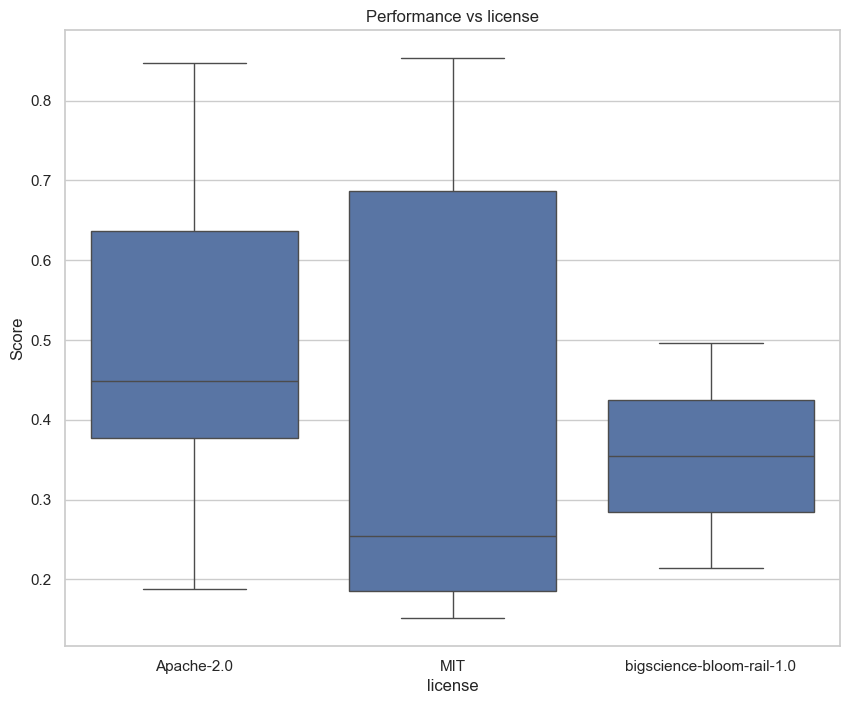
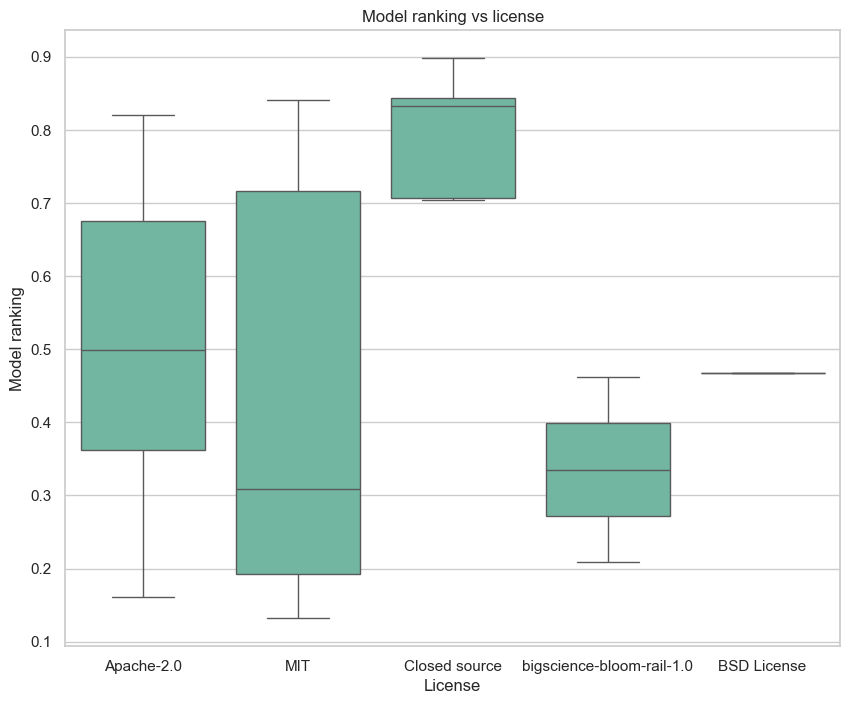
Figures ranking vs characteristics (#74)
* add base csv

* update get model spec script and csv

* adding some missing information

* add plot charac vs performance

* add global correlations

* update characteristics, scripts, and figures

* update plots with new results

* Manage bibtex mining special case in results parser

* fix MasakhaNEWSClassification issue

* ignore some models

* remove some hardcoding

* adding two missing models

* generate new perf vs charac charts

* fixing script and figures

* fix display names

* Update script_mteb_french/results_analysis/models_characteristics.csv

* Update script_mteb_french/results_analysis/models_characteristics.csv

---------

diff --git a/script_mteb_french/results_analysis/performance_vs_characteristics.py b/script_mteb_french/results_analysis/performance_vs_characteristics.py
@@ -20,6 +20,33 @@ CHARACTERISTICS = {
     "tuned_on_sentence_sim": "numerical",
 }
 
+CHARACTERISTICS_DISPLAY_NAMES = {
+    "finetuned": "Finetuned vs pretrained",
+    "multilingual_or_french": "Language",
+    "number_params": "Model number of parameters",
+    "size_gb": "Model size",
+    "seq_len": "Max sequence length",
+    "embedding_dim": "Embedding dimension",
+    "model_type": "Model type",
+    "license": "License",
+    "tuned_on_sentence_sim": "Tuned for sentence similarity",
+}
+
+COLS_TO_KEEP_GLOBAL_CORRELATION = {
+    "score": "Model ranking",
+    "finetuned": "Finetuned vs pretrained",
+    "number_params": "Model number of parameters",
+    "seq_len": "Max sequence length",
+    "embedding_dim": "Embedding dimension",
+    "tuned_on_sentence_sim": "Tuned for sentence similarity",
+    "bilingual": "Bilingual",
+    "english": "English",
+    "english_plus": "English tuned on other languages",
+    "french": "French",
+    "multilingual": "Multilingual",
+    "Closed source": "Closed source",
+}
+
 
 def parse_args() -> Namespace:
     """Parse command line arguments
@@ -49,7 +76,6 @@ def prepare_data(
     if mode == "avg":
         data = data.groupby("model").mean().reset_index()
     data = data.merge(characteristics_df, on="model", how="left")
-    data = data.dropna(axis=0, how="any")
     return data
 
 
@@ -59,12 +85,14 @@ def global_correlation(
     data = prepare_data(results_df, characteristics_df, mode="avg")
     data = data.drop(columns=["model"])
     # get dummies for categorical variables
-    data = pd.get_dummies(data, prefix='', prefix_sep='')
+    data = pd.get_dummies(data, prefix="", prefix_sep="")
+    data = data[list(COLS_TO_KEEP_GLOBAL_CORRELATION.keys())]
+    data = data.rename(columns=COLS_TO_KEEP_GLOBAL_CORRELATION)
     # compute correlation matrix
     corr_matrix = data.corr(method="pearson")
     mask = np.tril(np.ones_like(corr_matrix, dtype=bool))
     corr_matrix = corr_matrix.where(mask)
-    # plot correlation heatmap 
+    # plot correlation heatmap
     plt.figure(figsize=(12, 10))
     plt.title("Correlation heatmap")
     sns.heatmap(corr_matrix, center=0, cmap="coolwarm")
@@ -82,12 +110,15 @@ def perfomance_vs_characteristic_plot(
     mode: str = "avg",
 ):
     data = prepare_data(results_df, characteristics_df, mode)
+    data[target_characteristic] = data[target_characteristic].apply(lambda x: COLS_TO_KEEP_GLOBAL_CORRELATION[x] if x in COLS_TO_KEEP_GLOBAL_CORRELATION else x)
     # Set seaborn style
     sns.set(style="whitegrid")
+    sns.set_palette("Set2")
     plt.figure(figsize=(10, 8))
-    plt.title(f"Performance vs {target_characteristic}")
-    plt.xlabel(target_characteristic)
-    plt.ylabel("Score")
+    charac_display_name = CHARACTERISTICS_DISPLAY_NAMES[target_characteristic]
+    plt.title(f"Model ranking vs {charac_display_name.lower()}")
+    plt.xlabel(charac_display_name)
+    plt.ylabel("Model ranking")
     if characteristic_type == "categorical":
         sns.boxplot(data=data, x=target_characteristic, y="score")
     elif characteristic_type == "numerical":
@@ -102,19 +133,11 @@ if __name__ == "__main__":
     args = parse_args()
     rp = ResultsParser()
     results_df = rp(args.results_folder, return_main_scores=False)
-    results_df = results_df.drop(
-        columns=[
-            ("BitextMining", "DiaBLaBitextMining"),
-            ("BitextMining", "FloresBitextMining"),
-        ]
-    )
     results_df = results_df.droplevel(0, axis=1)
     results_df = results_df.reset_index()
     results_df["model"] = results_df["model"].apply(
         lambda x: x.replace(args.results_folder, "")
     )
-    # this should not be necessary with final csv
-    results_df = results_df.dropna(axis=1, how="all").dropna(axis=0, how="any")
     characteristics_df = pd.read_csv(args.characteristics_csv)
     global_correlation(results_df, characteristics_df, args.output_folder)
     for k, v in CHARACTERISTICS.items():
